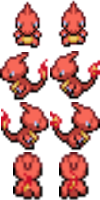
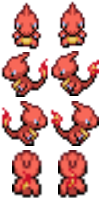
create charizard sprite sheet. charmander fully evolves to charmelon then charizard upon gaining levels

diff --git a/js/view.js b/js/view.js
@@ -81,26 +81,29 @@
       } else {
         if (i === 0) {
           $("#" + removex).children("." + removey).removeClass("blue");
-        //note: upon changing the class to charmleon, few charmander would spawn around the tai
         // } else if (oldsegments.length > 1 && ateApple && i == oldsegments.length - 1) {
         //   $("#" + removex).children("." + removey).removeClass("charmander");
         } else if (i == oldsegments.length - 1 && !ateApple) {
           // $("#" + removex).children("." + removey).removeClass("charmander N S E W");
           if (this.game.level < 3) {
-            debugger
             $("#" + removex).children("." + removey).removeClass("charmander N S E W");
           } else if (this.game.level === 3 && ateApple) {
             $("#" + removex).children("." + removey).removeClass("charmander N S E W");
-          } else if (this.game.level >= 3) {
-            debugger
+          } else if (this.game.level >= 3 && this.game.level < 9) {
             $("#" + removex).children("." + removey).removeClass("charmeleon N S E W");
+          } else if (this.game.level === 9 && ateApple) {
+            $("#" + removex).children("." + removey).removeClass("charmeleon N S E W");
+          } else {
+            $("#" + removex).children("." + removey).removeClass("charizard N S E W");
           }
         } else {
           // $("#" + removex).children("." + removey).removeClass("charmander");
           if (this.game.level <= 3) {
             $("#" + removex).children("." + removey).removeClass("charmander");
-          } else if (this.game.level >= 3) {
+          } else if (this.game.level >= 3 && this.game.level <= 9) {
             $("#" + removex).children("." + removey).removeClass("charmeleon");
+          } else {
+            $("#" + removex).children("." + removey).removeClass("charizard");
           }
         }
       }
@@ -114,11 +117,11 @@
       } else {
         // $("#" + snakeX).children("." + snakeY).addClass("charmander");
         if (this.game.level < 3) {
-          debugger
           $("#" + snakeX).children("." + snakeY).addClass("charmander");
-        } else if (this.game.level >= 3) {
-          debugger
+        } else if (this.game.level >= 3 && this.game.level < 9) {
           $("#" + snakeX).children("." + snakeY).addClass("charmeleon");
+        } else {
+          $("#" + snakeX).children("." + snakeY).addClass("charizard");
         }
 
       }

diff --git a/index.html b/index.html
@@ -43,8 +43,10 @@
         // preload image.
         var charmander = new Image();
         var charmeleon = new Image();
+        var charizard = new Image();
         charmander.src = "assets/charmander.png";
         charmeleon.src = "assets/charmeleon.png";
+        charizard.src = "assets/charizard.png";
         var game = new SnakeGame.Game($(".snake-game"));
         var view = new SnakeGame.View($(".snake-game"), game);
         view.startScreen();

diff --git a/css/snake.css b/css/snake.css
@@ -119,10 +119,14 @@ header {
 }
 
 .charmeleon {
-  background: url("../assets/charmeleon2.png"), url("../assets/grass.png");
+  background: url("../assets/charmeleon.png"), url("../assets/grass.png");
 }
 
-.charmander, .charmeleon {
+.charizard {
+  background: url("../assets/charizard.png"), url("../assets/grass.png");
+}
+
+.charmander, .charmeleon, .charizard {
   background-color: transparent;
   animation: charmander .2s steps(2) infinite;
 }
